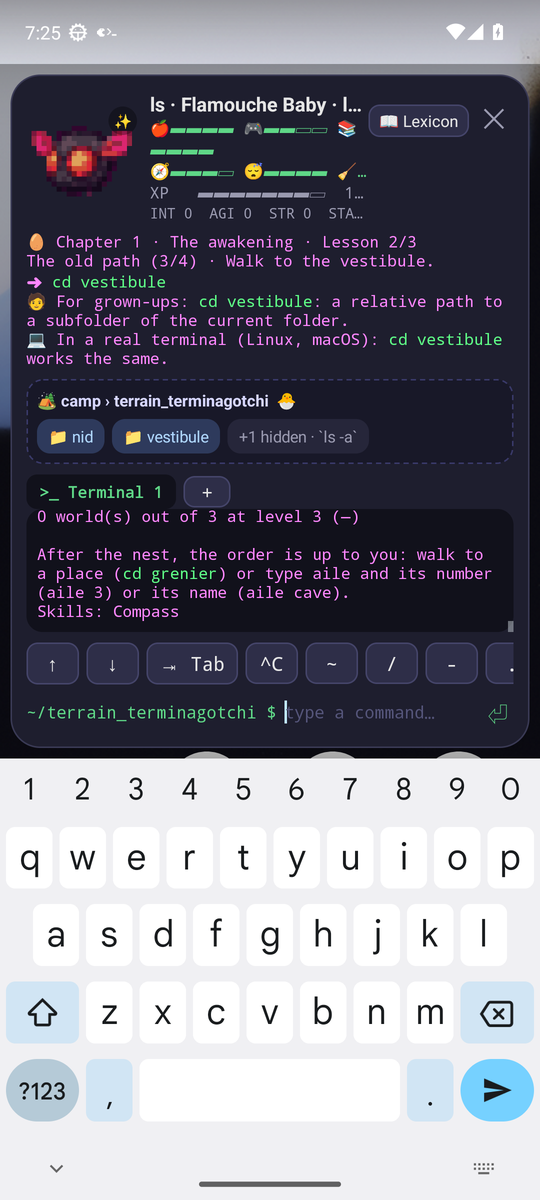
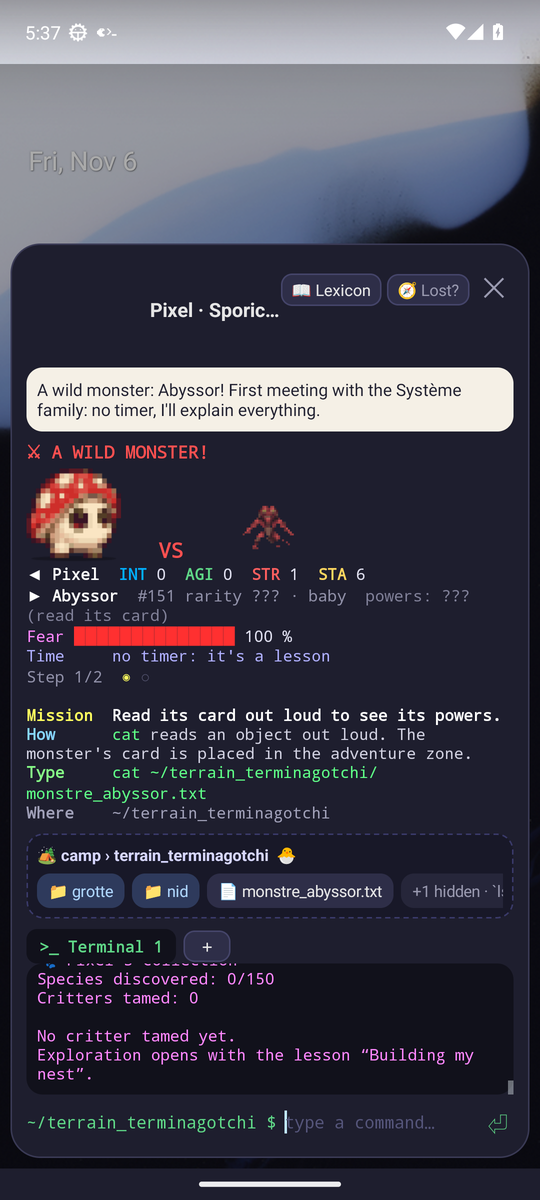
Idées 72, 74, 75, 76 : captures de la fiche F-Droid refaites une langue à la fois (fr-FR, en-US : œuf, éclosion, nid, monstre, espace de travail ; téléphone virtuel, tests/vitrine.sh) ; plan de bataille « 74, 75, 76 — codé », docs/fdroid.md ; vitrine : réponse des grands lue malgré les espaces inséc
Claude-Session: https://claude.ai/code/session_01Divag9b9e52aPY37DGRpjJ

diff --git a/docs/fdroid.md b/docs/fdroid.md
@@ -13,7 +13,7 @@ la vérifie, puis la propose à tout le monde, gratuitement, avec les mises à j
 | Fichier | Ce que c'est |
 |---|---|
 | `fdroid/fr.terminagotchi.yml` | la **fiche technique** que F-Droid demande (licence, adresse du code, comment construire l'appli) |
-| `fastlane/metadata/android/fr-FR/` et `en-US/` | les **textes de la fiche** (nom, phrase courte, description), l'**icône** 512 px, **4 captures** du téléphone virtuel, le texte des nouveautés de la version 1 |
+| `fastlane/metadata/android/fr-FR/` et `en-US/` | les **textes de la fiche** (nom, phrase courte, description), l'**icône** 512 px, **5 captures** du téléphone virtuel (une langue à la fois), le texte des nouveautés de la version 1 |
 | `app/version.properties` | le **numéro de version F-Droid** (1, « 0.1.0 ») : fixe, pour que deux constructions donnent le même APK |
 | `app/build.gradle.kts` | `gradle assembleRelease -Ppublication=fdroid` : version fixe, **pas de signature** (F-Droid signe avec sa clé), pas de bloc de dépendances chiffré par Google (F-Droid le refuse) |
 | `gradle/wrapper/gradle-wrapper.properties` | dit à F-Droid quelle version de Gradle utiliser (8.9, la même que notre CI) |
@@ -26,7 +26,8 @@ serveur, dont le code est libre (`site/`).
 ## Les étapes pour toi (environ 30 minutes, puis de l'attente)
 
 1. **Relire la fiche** : les textes de `fastlane/metadata/android/fr-FR/` (tu peux les changer librement) et les
-   captures (elles mélangent pour l'instant français et anglais : voir les questions).
+   captures (refaites le 6 novembre, tout en français pour fr-FR, tout en anglais pour en-US : l'œuf mystérieux,
+   l'éclosion, le nid, un monstre sauvage, l'espace de travail ; `tests/vitrine.sh`, workflow `vitrine.yml`).
 2. **Me dire « oui »** : je pose alors l'**étiquette** `fdroid-0.1.0` sur la version choisie (c'est le repère que
    F-Droid construit). Plus tard, chaque nouvelle version F-Droid = un numéro de plus dans `app/version.properties`
    et une nouvelle étiquette `fdroid-…` : F-Droid la voit tout seul (« UpdateCheckMode: Tags »).
@@ -60,7 +61,7 @@ serveur, dont le code est libre (`site/`).
 
 | # | Question | Ma proposition |
 |---|---|---|
-| 1 | Les captures de la fiche : garder les 4 captures actuelles (vraies, mais français et anglais mélangés) ou en refaire 4 en français seulement (et 4 en anglais) avec le téléphone virtuel ? | **Les refaire** (un scénario « vitrine » du téléphone virtuel, une langue à la fois) avant l'envoi. |
+| 1 | ~~Les captures de la fiche~~ : ✅ refaites une langue à la fois (décision du 3 novembre). Les autres langues du jeu (12) n'ont pas encore de fiche F-Droid : les ajouter (textes traduits + captures) ? | **Plus tard**, si F-Droid accepte l'appli (en-US sert de repli). |
 | 2 | Le premier numéro F-Droid : « 0.1.0 » (code 1) ? | **Oui** : simple, et indépendant des numéros automatiques de GitHub. |
 | 3 | La clé de signature de l'APK GitHub est publique : la remplacer par une clé secrète (gardée dans les « secrets » de GitHub) ? Attention : les téléphones qui ont l'ancienne version devront **désinstaller une fois** (la créature se garde avec `sauvegarde exporter`). | **Oui, avant la mise en ligne publique** ; pas maintenant (les essais en cours continuent avec l'ancienne). |
 | 4 | Demande par « RFP » (un bénévole s'en charge, plus lent) ou « merge request » (plus rapide, un peu plus technique) ? | **Merge request**, je te prépare tout le texte. |

diff --git a/docs/plan_de_bataille.md b/docs/plan_de_bataille.md
@@ -1176,6 +1176,26 @@ Maquette et captures : `/home/claude/outils/xp/`.
 - Maquettes 74 (nuage de synchro), 75 (tablette en paysage), 76 (signaler un bug) et questions :
   `/home/claude/outils/ameliorations/technique/` (planche.png, proposition.md).
 
+**☁ 74, 75, 76 — codé (maquettes validées le 3 novembre, 04 h 34 : « fais ce que tu as dit »).**
+- **74 Nuage de synchro** : seulement avec un compte, et seulement **hors ligne** (orange barré, « hors ligne · N en
+  attente ») ou **pendant un envoi** (bleu, « envoi… ») ; rien quand tout est à jour (`compte` le dit). PC : à droite du
+  nom sur l'écran de `tg` (recense.nuage_pc) ; téléphone : pilule en pixels au bout du chemin de la fenêtre
+  d'observation (NuageDessin.kt), la toucher l'explique en une ligne. Une synchro qui ne joint pas le site met
+  `compte.hors`, une synchro réussie l'enlève. Vecteurs `donnees/synchro/vecteurs.json`.
+- **75 Tablette en paysage** : PanneauDeux.kt (le panneau du layout) : deux colonnes, 40 % à gauche (créature, bulle,
+  leçon, observation), le grand terminal à droite ; seulement si le petit côté de l'écran fait ≥ 600 dp (tablette 7
+  pouces et plus) et en paysage, hors de l'espace de travail ; un téléphone tourné ne change pas.
+- **76 Signaler un souci** : `tg bug` (PC, pc/tg/signaler.py), `bug` / `tg bug` et la ligne « 🐞 Signaler ce souci »
+  après une vraie panne du jeu (téléphone, Signaler.kt ; un plantage est noté dans files/erreurs.log et annoncé au
+  lancement suivant). D'abord la question des grands (« Tu es un adulte ? » + multiplication), puis le rapport en
+  entier ; l'adulte choisit : la page GitHub « nouveau signalement » pré-remplie (il l'envoie lui-même avec son compte)
+  ou un fichier texte (`~/rapport-terminagotchi.txt`, « Enregistrer sous » d'Android) ou rien. Jamais : nom de la
+  créature, pseudo, dossiers, nom d'utilisateur (nettoyer) ; le jeu n'envoie rien. Vecteurs `donnees/bug/vecteurs.json`.
+- 14 langues (`rec.nuage.*`, `bug.*`). Tests : pc/outils/test_signaler.py, tests/jvm/SignalerSynchro.kt ;
+  téléphone et tablette virtuels : tests/vitrine.sh (workflow vitrine.yml), qui fait aussi les captures de la fiche
+  F-Droid une langue à la fois (fr-FR, en-US). La clé de signature des APK n'est PAS changée (juste avant la mise en
+  ligne publique). Captures : `/home/claude/outils/ameliorations/technique/captures/code/`.
+
 **📄 Autour du jeu — codé (3 novembre, maquettes validées : « Va y lance tout »).** Rien ne change dans le jeu.
 Site : page **Essayer** (`/essayer`, bouton « Essayer sans installer » sur l'accueil et « Essayer » dans le menu) :
 le début du jeu rejoué dans la page (`site/public/js/essayer.js`) sur un faux dossier en mémoire, œuf tiré au hasard
